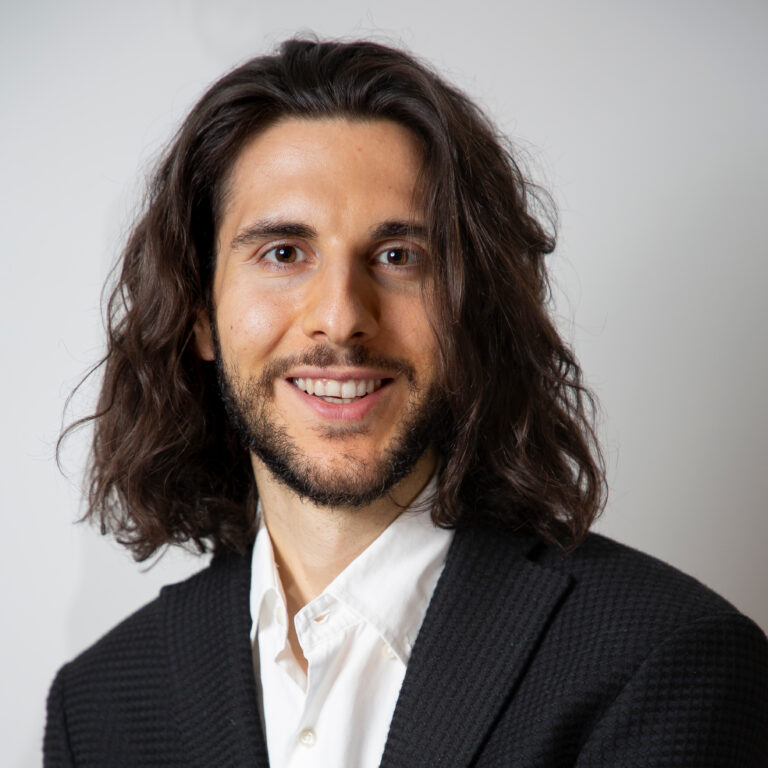
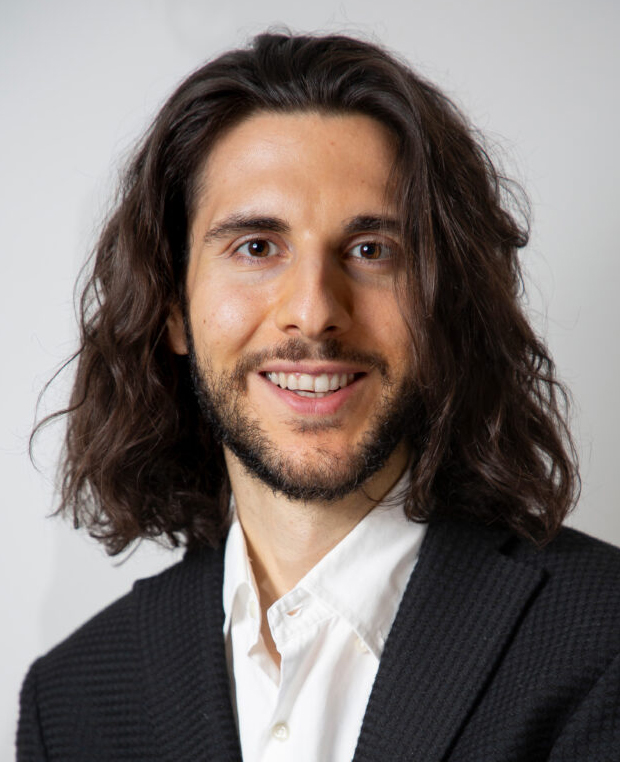
Add Laurie Hurson to team, update photos, rename section to Team
- Add Laurie Hurson (Assistant Director of Open Education, TLC)
- Update photos for Stefano Morello and Luke Waltzer
- Rename "Co-Principal Investigators" section to "Team"
- Update CLAUDE.md with models page structure

diff --git a/CLAUDE.md b/CLAUDE.md
@@ -17,13 +17,16 @@ Astro static site with Tailwind CSS. Auto-deploys to GitHub Pages (cunyailab.org
 **Structure:**
 - `src/layouts/BaseLayout.astro` - Main layout wrapper (Header, Footer, fonts, favicon)
 - `src/components/` - Header.astro, Footer.astro, PasswordGate.astro
-- `src/pages/` - Route pages (index, about, tools, models, team, contact, request-access)
+- `src/pages/` - Route pages (index, about, tools, team, contact, request-access)
+- `src/pages/models.astro` - Model registry grid view
+- `src/pages/models/list.astro` - Model registry single-column list view
+- `src/pages/models/guide.astro` - Field guide explaining registry UI elements
 - `src/data/` - JSON data files (model-registry.json)
 - `public/images/` - Static assets (logos, partner logos)
 - `tailwind.config.mjs` - Color palette and theme configuration
 
 **Data Files:**
-- `src/data/model-registry.json` - Model registry data displayed on /models page. Update `updated_at` field when modifying.
+- `src/data/model-registry.json` - Model registry data displayed on /models and /models/list pages. Update `updated_at` field when modifying.
 
 **Color System (tailwind.config.mjs):**
 - `vibrant-600` (#3B73E6) - Primary CTA buttons
